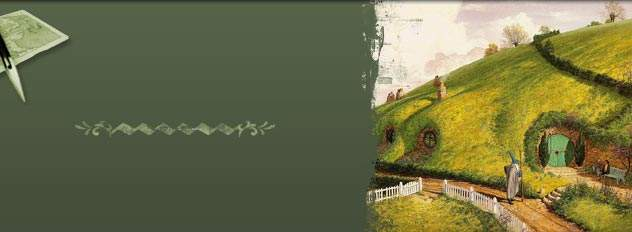
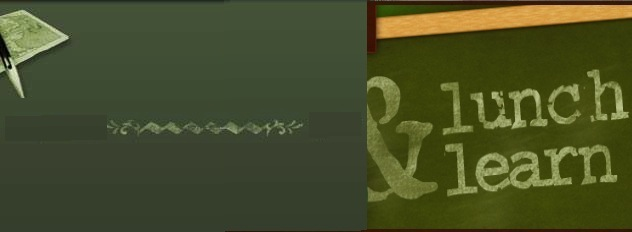
User controller implemented. Signings Modified

diff --git a/public/index.html b/public/index.html
@@ -1,152 +1,72 @@
 <!DOCTYPE html PUBLIC "-//W3C//DTD XHTML 1.1//EN"
-"http://www.w3.org/TR/xhtml11/DTD/xhtml11.dtd">
+    "http://www.w3.org/TR/xhtml11/DTD/xhtml11.dtd">
 <html>
 
 <head>
-<meta http-equiv="content-type" content="text/html; charset=iso-8859-1"/>
-<meta name="description" content="description"/>
-<meta name="keywords" content="keywords"/>
-<meta name="author" content="author"/>
-<link rel="stylesheet" type="text/css" href="stylesheets/default.css" media="screen"/>
-<title>The Hobbit</title>
+    <meta http-equiv="content-type" content="text/html; charset=iso-8859-1"/>
+    <meta name="description" content="description"/>
+    <meta name="keywords" content="keywords"/>
+    <meta name="author" content="author"/>
+    <link rel="stylesheet" type="text/css" href="stylesheets/default.css" media="screen"/>
+    <title>Lunch N Learn</title>
 </head>
 
 <body>
 
-<div class="container">
+    <div class="container">
 
-    <div class="gfx"><span></span></div>
+        <div class="gfx"><span></span></div>
 
-    <div class="top">
+        <div class="top">
+            <div class="navigation">
+                <a href="index.html" id="selected">Home</a>
+                <a href="index.html">The Journey</a>
+            </div>
 
-        <div class="navigation">
-            <a href="index.html" id="selected">home</a>
-            <a href="index.html">the journey</a>
-            <a href="index.html">characters</a>
-            <a href="index.html">image gallery</a>
-            <a href="index.html">history</a>
+            <div class="pattern"><span></span></div>
+
+            <div class="header">
+                <h1>LunchNLearn</h1>
+                <p>Keep Yourself Informed N Learn How to Prepare for Changes</p>
+            </div>
+
+            <div class="pattern"><span></span></div>
         </div>
 
-        <div class="pattern"><span></span></div>
+        <div class="content">
+            <div class="signing">
+                <a href="http://localhost:3000/users/sign_in">Sign In</a>
+                <a href="http://localhost:3000/users/sign_up">Sign Up</a>
+            </div>
 
-        <div class="header">
-            <h1>The Hobbit</h1>
-            <p>Adventures of Bilbo Baggins</p>
-        </div>
+            <div class="divider"><span></span></div>
+            <div class="spacer"></div>
 
-        <div class="pattern"><span></span></div>
+            <div class="item">
 
-    </div>
+                <div class="title">A Novel Approach</div>
+                <div class="metadata">April 05, 2011 by Trainee @ STS</div>
 
-    <div class="content">
+                <div class="body">
 
-        <div class="spacer"></div>
+                    <p>In hac habitasse platea dictumst. Duis porttitor. Sed vulputate elementum nisl. Vivamus et mi at arcu mattis iaculis. Nullam posuere tristique tortor. Aenean ornare, <a href="index.html">nunc eget pretium</a> porttitor, sem est pretium leo.</p>
+                    <img class="left" src="images/lnl_logo.jpg" height="220" width="175" alt="sample image">
+                    <p>Aliquam risus justo, mollis in, laoreet a, consectetuer nec, risus. Nunc blandit sodales lacus. Nam luctus semper mi. In eu diam. Aliquam risus justo, mollis in, laoreet a, consectetuer nec, risus. Nunc blandit sodales lacus. Nam luctus semper mi. In eu diam. Aliquam risus justo, mollis in, laoreet a, consectetuer nec, risus. Nunc blandit sodales lacus. Nam luctus semper mi. In eu diam.Nam luctus semper mi. In eu diam. Aliquam risus justo, mollis in, laoreet a, consectetuer nec, risus. Nunc blandit sodales lacus. Nam luctus semper mi. In eu diam. Aliquam risus justo, mollis in, laoreet a, consectetuer nec, risus. Nunc blandit sodales lacus. Nam luctus semper mi. In eu diam.</p>
 
-        <div class="item">
-
-            <div class="title">Porttitor posuere</div>
-            <div class="metadata">Jun 13, 2006 by Vulputate</div>
-
-            <div class="body">
-
-                <p>In hac habitasse platea dictumst. Duis porttitor. Sed vulputate elementum nisl. Vivamus et mi at arcu mattis iaculis. Nullam posuere tristique tortor. Aenean ornare, <a href="index.html">nunc eget pretium</a> porttitor, sem est pretium leo.</p>
-
-                <img class="left" src="images/map.jpg" width="180" height="152" alt="sample image"/>
-
-                <p>Aliquam risus justo, mollis in, laoreet a, consectetuer nec, risus. Nunc blandit sodales lacus. Nam luctus semper mi. In eu diam. Aliquam risus justo, mollis in, laoreet a, consectetuer nec, risus. Nunc blandit sodales lacus. Nam luctus semper mi. In eu diam. Aliquam risus justo, mollis in, laoreet a, consectetuer nec, risus. Nunc blandit sodales lacus. Nam luctus semper mi. In eu diam.</p>
-
-                <p>Fusce porta pede nec eros. Maecenas ipsum sem, interdum non, aliquam vitae, interdum nec, metus. Maecenas ornare lobortis risus. Etiam placerat varius mauris. Maecenas viverra. Sed feugiat. Donec mattis <a href="index.html">quam aliquam</a> risus. Nulla non felis sollicitudin urna blandit egestas. Integer et libero varius pede tristique ultricies. Cras nisl. Proin quis massa semper felis euismod ultricies.
-                </p>
+                </div>
 
             </div>
 
-        </div>
-
-        <div class="divider"><span></span></div>
-
-        <div class="item">
-
-            <div class="title">Adipiscing</div>
-            <div class="metadata">Jun 11, 2006 by Laoreet</div>
-
-            <div class="body">
-
-                <p>Aliquam risus justo, mollis in, laoreet a, consectetuer nec, risus. Nunc blandit sodales lacus. Nam luctus semper mi.</p>
-
-                <h2>Justo Elit</h2>
-
-                <p>In hac habitasse platea dictumst. Duis porttitor. Sed vulputate elementum nisl. Vivamus et mi at arcu mattis iaculis. Nullam posuere tristique tortor. In bibendum. Aenean ornare, nunc eget pretium porttitor, sem est pretium leo</p>
-
-                <h2>Non Euismod Nulla</h2>
-
-                <p>Dui non diam. Pellentesque dictum faucibus leo. Vestibulum ac ante. Sed in est. Sed sodales nisl sit amet augue. Donec ultrices, augue ullamcorper posuere laoreet, turpis massa tristique justo, sed egestas metus magna sed purus. Fusce eleifend, dui ut posuere auctor, justo elit posuere sapien, at blandit enim quam fringilla mi.</p>
-            </div>
+            <div class="divider"><span></span></div>
+            <div class="divider"><span></span></div>
 
         </div>
 
-        <div class="divider"><span></span></div>
-
-        <div class="item">
-
-            <div class="title">Donec dictum</div>
-            <div class="metadata">Jun 6, 2006 by Ultrices</div>
-
-            <div class="body">
-
-                <p>In hac habitasse platea dictumst. Duis porttitor. Sed vulputate elementum nisl. Vivamus et mi at arcu mattis iaculis. <a href="index.html">Nullam</a> posuere tristique tortor.</p>
-
-                <h1>Tristique</h1>
-
-                <p>In bibendum. Aenean ornare, nunc eget pretium porttitor, sem est pretium leo, non euismod nulla dui non diam. Pellentesque dictum faucibus leo. Vestibulum ac ante. Sed in est.</p>
-
-                <ul>
-                    <li>Tristique</li>
-                    <li>Aenean</li>
-                    <li>Pretium</li>
-                </ul>
-
-                <p>Aliquam risus justo, mollis in, laoreet a, <a href="index.html">consectetuer nec</a> risus. Nunc blandit sodales lacus. Nam luctus semper mi. Sed sodales nisl sit amet augue. Donec ultrices, augue ullamcorper posuere laoreet, turpis massa tristique justo.</p>
-
-            </div>
-
-        </div>
-
-        <div class="divider"><span></span></div>
-
-        <div class="item">
-
-            <div class="title">Ultrices</div>
-            <div class="metadata">May 29, 2006 by Feugiat</div>
-
-            <div class="body">
-
-                <p>Integer porta. Fusce nibh. Curabitur pellentesque, lectus at <a href="index.html">volutpat interdum</a>. Cum sociis natoque penatibus et magnis dis parturient montes, nascetur ridiculus mus. Pellentesque a nibh quis nunc volutpat aliquam</p>
-
-                <blockquote>
-                    <p>A box without thines, key or lid, Yet a golden treasure inside is hid.</p>
-                </blockquote>
-
-                <p>Sem justo placerat elit, eget feugiat est leo tempor quam. Ut quis neque convallis magna consequat molestie. Nullam semper massa eget ligula. Fusce accumsan enim et arcu. Duis sagittis libero at lacus. Suspendisse lacinia nulla eget urna.</p>
-
-                <blockquote>
-                    <p>Alive without breath, As cold as death; Never thirsty, ever drinking, All in mail never clinking.</p>
-                </blockquote>
-
-                <p>Eget feugiat est leo tempor quam. Ut quis neque convallis magna consequat molestie. Donec varius tincidunt nisi.</p>
-
-            </div>
-
+        <div class="footer">
+            &copy; 2011 <a href="index.html">LunchNLearn.com</a>  | Sprout Technology Services
         </div>
 
     </div>
-
-    <div class="footer">
-
-        &copy; 2006 <a href="index.html">Website.com</a>. Valid <a href="http://jigsaw.w3.org/css-validator/check/referer">CSS</a> &amp; <a href="http://validator.w3.org/check?uri=referer">XHTML</a>. Template design by <a href="http://arcsin.se">Arcsin</a>
-
-    </div>
-
-</div>
 
 </body>
 

diff --git a/public/stylesheets/default.css b/public/stylesheets/default.css
@@ -64,6 +64,8 @@ img.left {margin: 0 18px 6px 0;}
 .container {
   background: url(../images/bgcontainer.jpg) repeat-y center top;
   margin: 0 auto;
+  margin-top: 15px ;
+  margin-bottom: 15px ;
   width: 736px;
 }
 
@@ -127,8 +129,29 @@ img.left {margin: 0 18px 6px 0;}
   height: 42px;
 }
 
+/* sign in and up */
+.signing {
+  margin: 0 24px;
+  text-align:center;
+  padding-top: 10px ;
+  }
+
+.signing a {
+  color: #9C6835 ;
+  font: normal 1.9em serif;
+  line-height: 50px;
+  margin: 0 16px;
+  text-decoration: none;
+}
+.signing a:hover,.navigation #selected {
+  color: #2C3111;
+}
+
 /* content item */
-.item {clear: both;}
+.item {
+  clear: both;
+  overflow:hidden ;
+}
 
 .item img {border: 1px dashed #8A6;}
 

diff --git a/app/controllers/users_controller.rb b/app/controllers/users_controller.rb
@@ -1,5 +1,7 @@
 class UsersController < ApplicationController
 
+  before_filter :authenticate_user!
+
   def index
     @users = User.all
   end
@@ -11,7 +13,7 @@ class UsersController < ApplicationController
   def create
     @user = User.create(params[:user])
     if @user.save
-      redirect_to users_path, :notice => "You have signed up successfully"
+      redirect_to users_path, :notice => "You have signed up successfully ! "
     else
       render "new"
     end
@@ -21,8 +23,13 @@ class UsersController < ApplicationController
     @user = User.find(params[:id])
   end
 
-  def delete
+  def destroy
+    @user = User.find(params[:id])
+    if @user.delete
+      redirect_to users_path, :method => :delete , :confirm => "Are you sure ? "
+    else
+      redirect_to users_path
+    end
   end
-
 
 end

diff --git a/app/controllers/presentation_topics_controller.rb b/app/controllers/presentation_topics_controller.rb
@@ -1,5 +1,7 @@
 class PresentationTopicsController < ApplicationController
 
+ before_filter :authenticate_user!
+
   def index
     @users = User.all
   end
@@ -14,7 +16,7 @@ class PresentationTopicsController < ApplicationController
   def show
   end
 
-  def delete
+  def destroy
   end
 
 

diff --git a/config/routes.rb b/config/routes.rb
@@ -2,6 +2,10 @@ LunchNLearn::Application.routes.draw do
 
   devise_for :users
 
+  resources :users do
+    resources :presentation_topics
+  end
+
   root :to => "home#index"
 
 
